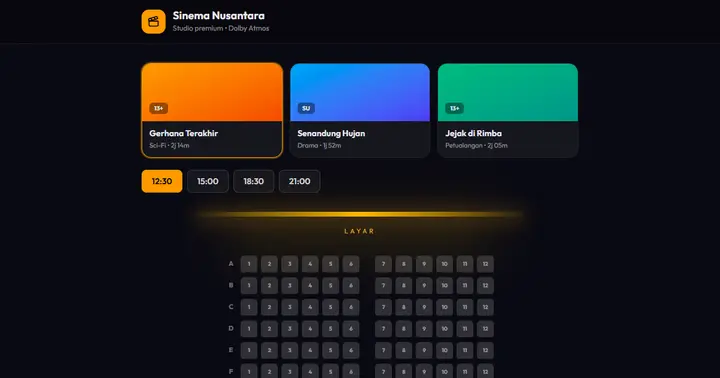
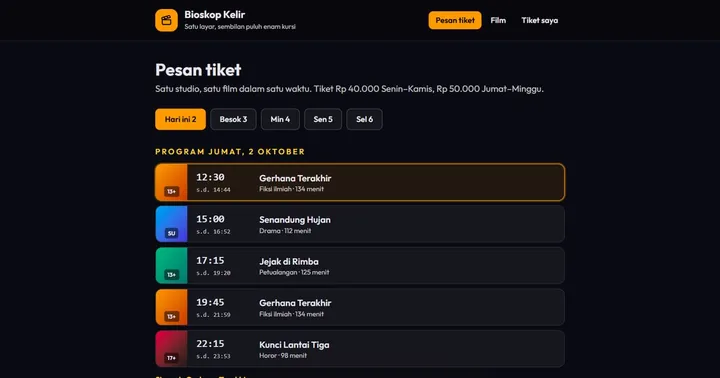
Galeri demo: nama & gambar baru Reservasi, Properti, dan Todo
- Lima aplikasi reservasi berganti nama fiktif (nama lama dipakai usaha
  nyata); kanban "TaskFlow" kini "Lajur"; tagline properti & todo
  mengikuti isi baru
- 12 thumbnail galeri dari og.jpg terbaru; 4 gambar pintu hero diambil
  ulang dari situs live

diff --git a/app/lib/demos.ts b/app/lib/demos.ts
@@ -68,18 +68,18 @@ export const DEMOS: Demo[] = [
   { slug: "noelle", name: "Noelle", tagline: "UI/UX Designer", category: 'portfolio', url: "https://portfolio-noelle-one.vercel.app" },
   { slug: "rex", name: "Rex", tagline: "Graphic Designer & Front-end Dev", category: 'portfolio', url: "https://portfolio-rex-zeta.vercel.app" },
   { slug: "sorelle", name: "Sorelle", tagline: "UI/UX Designer & Developer", category: 'portfolio', url: "https://portfolio-sorelle.vercel.app" },
-  { slug: "futsal", name: "Arena Futsal Garuda", tagline: "Booking Lapangan Online", category: 'reservasi', url: "https://reservasi-futsal.vercel.app" },
-  { slug: "klinik", name: "Klinik Sehat Sentosa", tagline: "Janji Temu Dokter Online", category: 'reservasi', url: "https://reservasi-klinik-rose.vercel.app" },
-  { slug: "restoran", name: "Saung Rasa", tagline: "Reservasi Meja Restoran Online", category: 'reservasi', url: "https://reservasi-restoran-gilt.vercel.app" },
-  { slug: "hotel", name: "Senja Bay Resort", tagline: "Reservasi Kamar Online", category: 'reservasi', url: "https://reservasi-hotel-kappa.vercel.app" },
-  { slug: "bioskop", name: "Sinema Nusantara", tagline: "Pesan Tiket Bioskop Online", category: 'reservasi', url: "https://reservasi-bioskop.vercel.app" },
-  { slug: "beranda", name: "Beranda", tagline: "Cari Rumah dengan Hati", category: 'properti', url: "https://properti-beranda.vercel.app" },
-  { slug: "homigo", name: "Homigo", tagline: "Cari Properti Jadi Mudah", category: 'properti', url: "https://properti-homigo.vercel.app" },
-  { slug: "lumora", name: "Lumora", tagline: "Properti Premium Pilihan", category: 'properti', url: "https://properti-lumora.vercel.app" },
-  { slug: "propertia", name: "Propertia", tagline: "Temukan Rumah Impianmu", category: 'properti', url: "https://properti-propertia.vercel.app" },
-  { slug: "classic-todo", name: "Hari Ini", tagline: "Daftar Tugas Minimal & Fokus", category: 'todo', url: "https://todo-classic.vercel.app" },
-  { slug: "kanban-board", name: "TaskFlow", tagline: "Papan Kanban Produktif", category: 'todo', url: "https://todo-kanban-one.vercel.app" },
-  { slug: "task-manager", name: "Tuntas", tagline: "Task Manager Lengkap", category: 'todo', url: "https://todo-manager-ivory-seven.vercel.app" },
+  { slug: "futsal", name: "Gelanggang Petang", tagline: "Booking Lapangan Futsal", category: 'reservasi', url: "https://reservasi-futsal.vercel.app" },
+  { slug: "klinik", name: "Klinik Rumpun Waras", tagline: "Janji Temu Dokter", category: 'reservasi', url: "https://reservasi-klinik-rose.vercel.app" },
+  { slug: "restoran", name: "Pawon Lirih", tagline: "Pesan Meja lewat Denah", category: 'reservasi', url: "https://reservasi-restoran-gilt.vercel.app" },
+  { slug: "hotel", name: "Tanjung Lengkung", tagline: "Pesan Kamar di Ujung Teluk", category: 'reservasi', url: "https://reservasi-hotel-kappa.vercel.app" },
+  { slug: "bioskop", name: "Bioskop Kelir", tagline: "Pesan Tiket & Pilih Kursi", category: 'reservasi', url: "https://reservasi-bioskop.vercel.app" },
+  { slug: "beranda", name: "Beranda", tagline: "Pilih Kawasannya Dulu", category: 'properti', url: "https://properti-beranda.vercel.app" },
+  { slug: "homigo", name: "Homigo", tagline: "Rumah Pertama & Tempat Sewa", category: 'properti', url: "https://properti-homigo.vercel.app" },
+  { slug: "lumora", name: "Lumora", tagline: "Hunian Mewah, Kunjungan Privat", category: 'properti', url: "https://properti-lumora.vercel.app" },
+  { slug: "propertia", name: "Propertia", tagline: "Rumah yang Dikurasi", category: 'properti', url: "https://properti-propertia.vercel.app" },
+  { slug: "classic-todo", name: "Hari Ini", tagline: "Satu Daftar untuk Satu Hari", category: 'todo', url: "https://todo-classic.vercel.app" },
+  { slug: "kanban-board", name: "Lajur", tagline: "Papan Kanban dengan Batas WIP", category: 'todo', url: "https://todo-kanban-one.vercel.app" },
+  { slug: "task-manager", name: "Tuntas", tagline: "Pengelola Tugas dengan Kalender", category: 'todo', url: "https://todo-manager-ivory-seven.vercel.app" },
   { slug: "absorber-dickson", name: "EthyleneAbsorber", tagline: "Konsep Korporat", category: 'kontes', url: "https://absorber-dickson.vercel.app" },
   { slug: "absorber-divine", name: "EthyleneAbsorber", tagline: "Konsep Divine", category: 'kontes', url: "https://absorber-divine.vercel.app" },
   { slug: "absorber-premium", name: "EthyleneAbsorber", tagline: "Konsep Premium", category: 'kontes', url: "https://absorber-premium.vercel.app" },
